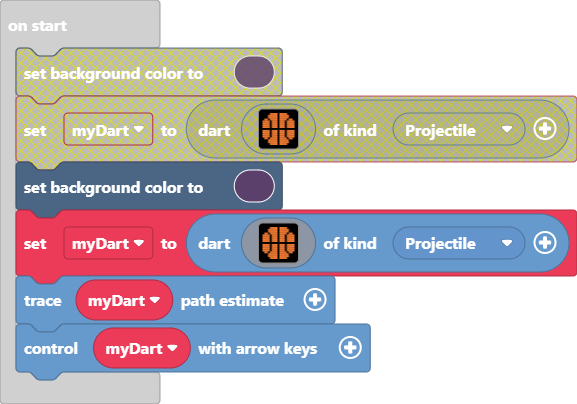
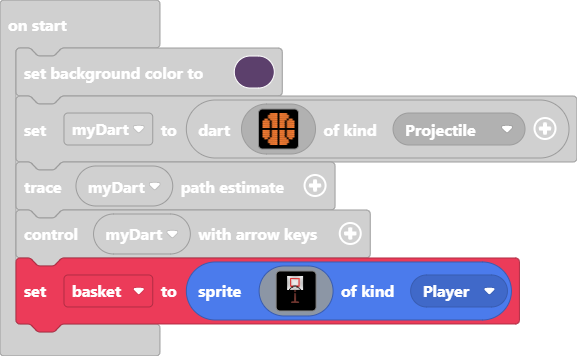
Update main.blocks, main.ts

diff --git a/main.ts b/main.ts
@@ -20,3 +20,35 @@ let myDart = darts.create(img`
     `, SpriteKind.Projectile)
 myDart.setTrace()
 myDart.controlWithArrowKeys()
+let basket = sprites.create(img`
+    ................
+    111111111111111.
+    111111111111111.
+    111222222222111.
+    111211111112111.
+    111211111112111.
+    111211111112111.
+    111211111112111.
+    111211111112111.
+    111211111112111.
+    111222fff222111.
+    1111ff111ff1111.
+    111f1111111f111.
+    11f111111111f11.
+    ...f...e...f....
+    ....ff.e.ff.....
+    ......fff.......
+    .......e........
+    .......e........
+    .......e........
+    .......e........
+    .......e........
+    .......e........
+    .......e........
+    .......e........
+    ....eeeeeee.....
+    ................
+    ................
+    ................
+    ................
+    `, SpriteKind.Player)
